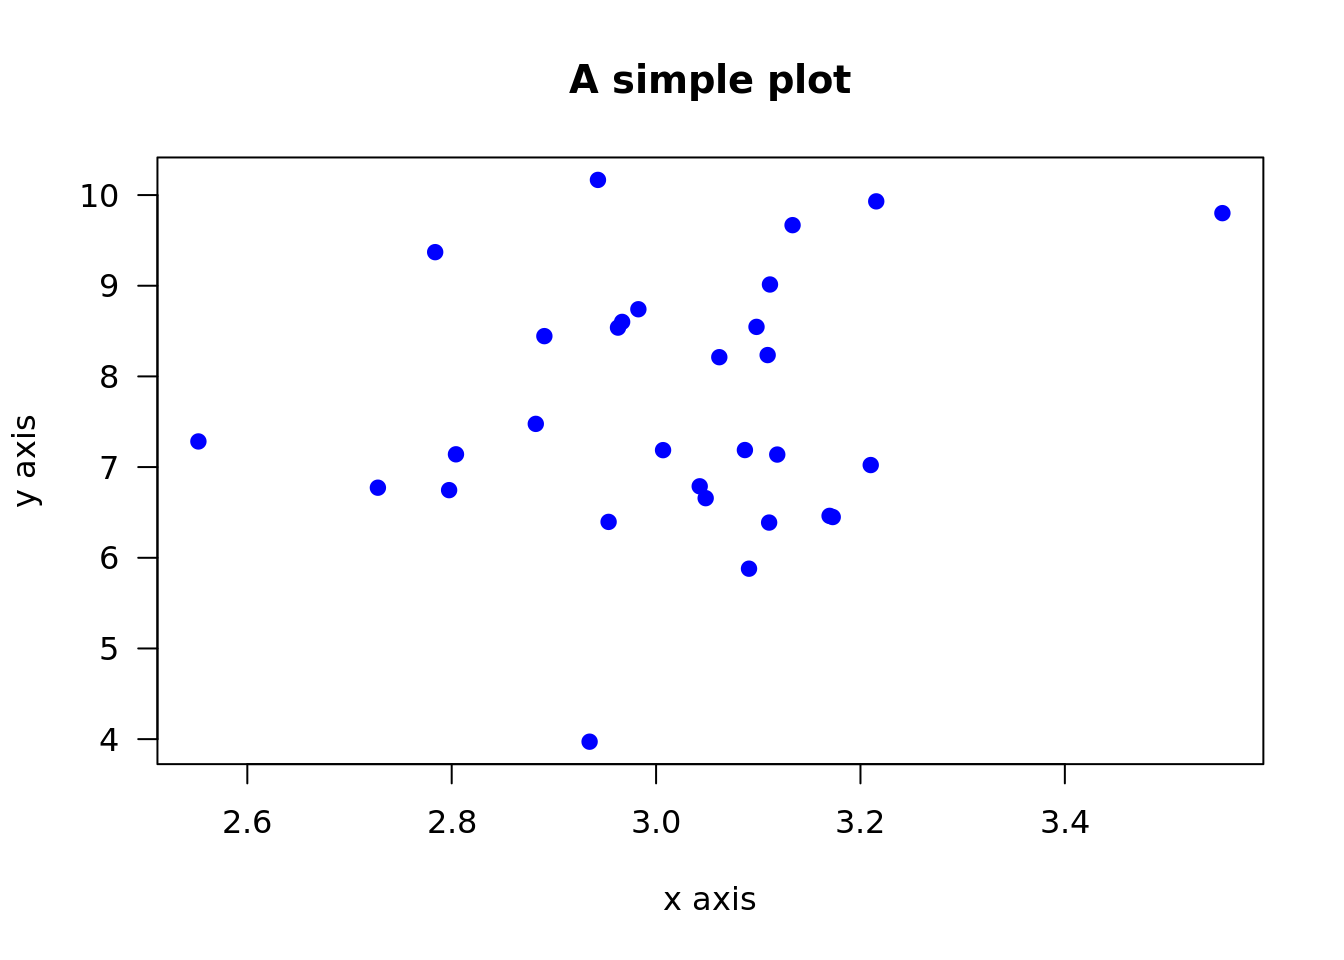
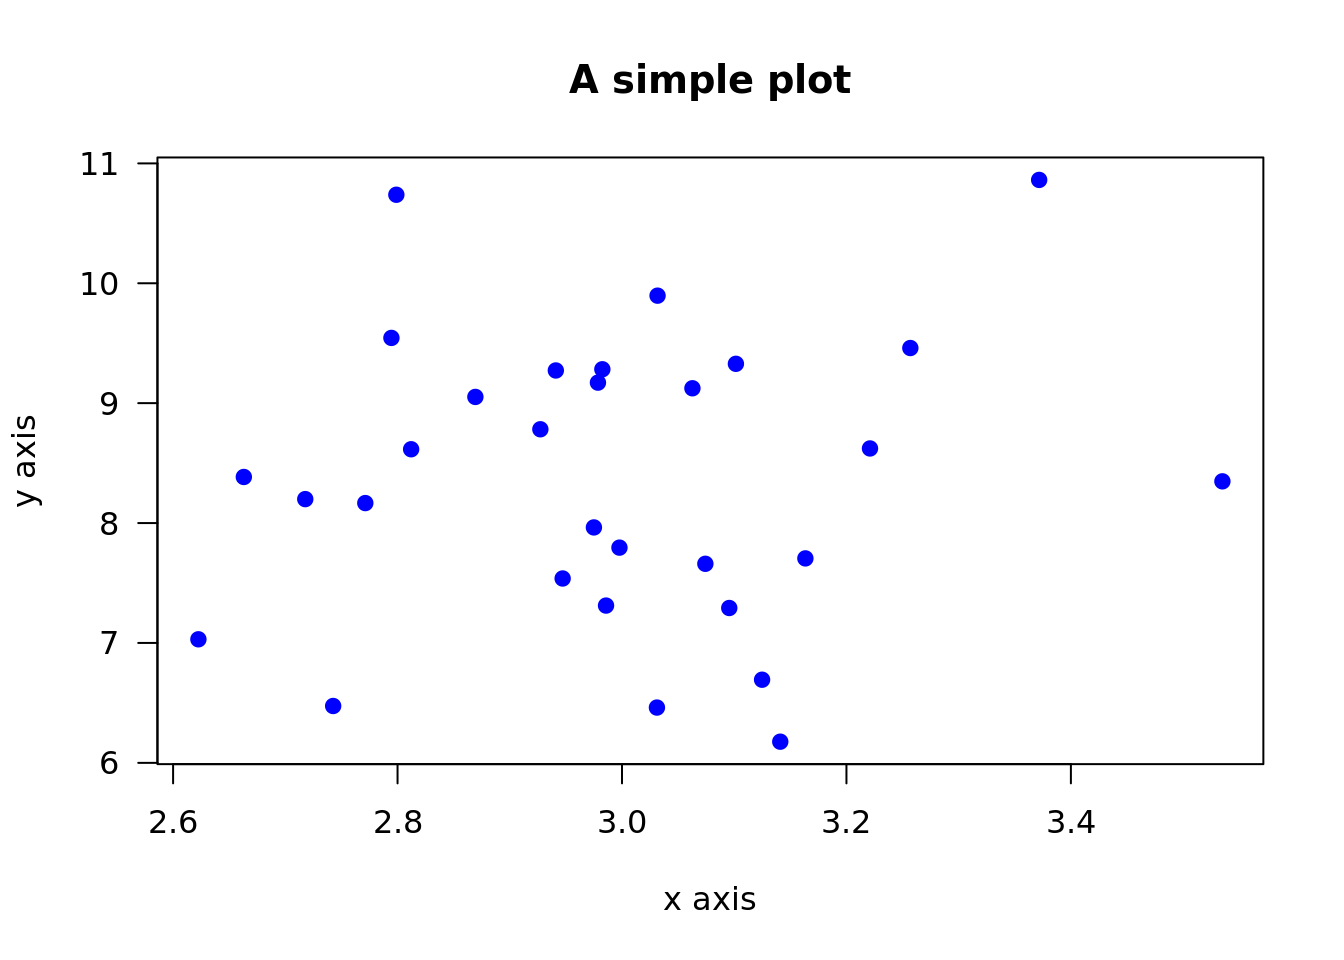
rmarkdown::render_site() with toc for each page

diff --git a/docs/dplyr.html b/docs/dplyr.html
@@ -19,6 +19,9 @@
 <script src="site_libs/bootstrap-3.3.5/js/bootstrap.min.js"></script>
 <script src="site_libs/bootstrap-3.3.5/shim/html5shiv.min.js"></script>
 <script src="site_libs/bootstrap-3.3.5/shim/respond.min.js"></script>
+<script src="site_libs/jqueryui-1.11.4/jquery-ui.min.js"></script>
+<link href="site_libs/tocify-1.9.1/jquery.tocify.css" rel="stylesheet" />
+<script src="site_libs/tocify-1.9.1/jquery.tocify.js"></script>
 <script src="site_libs/navigation-1.1/tabsets.js"></script>
 <link href="site_libs/highlightjs-9.12.0/textmate.css" rel="stylesheet" />
 <script src="site_libs/highlightjs-9.12.0/highlight.js"></script>
@@ -261,6 +264,92 @@ $(document).ready(function () {
 
 
 
+<script>
+$(document).ready(function ()  {
+
+    // move toc-ignore selectors from section div to header
+    $('div.section.toc-ignore')
+        .removeClass('toc-ignore')
+        .children('h1,h2,h3,h4,h5').addClass('toc-ignore');
+
+    // establish options
+    var options = {
+      selectors: "h1,h2,h3",
+      theme: "bootstrap3",
+      context: '.toc-content',
+      hashGenerator: function (text) {
+        return text.replace(/[.\\/?&!#<>]/g, '').replace(/\s/g, '_').toLowerCase();
+      },
+      ignoreSelector: ".toc-ignore",
+      scrollTo: 0
+    };
+    options.showAndHide = true;
+    options.smoothScroll = true;
+
+    // tocify
+    var toc = $("#TOC").tocify(options).data("toc-tocify");
+});
+</script>
+
+<style type="text/css">
+
+#TOC {
+  margin: 25px 0px 20px 0px;
+}
+@media (max-width: 768px) {
+#TOC {
+  position: relative;
+  width: 100%;
+}
+}
+
+
+.toc-content {
+  padding-left: 30px;
+  padding-right: 40px;
+}
+
+div.main-container {
+  max-width: 1200px;
+}
+
+div.tocify {
+  width: 20%;
+  max-width: 260px;
+  max-height: 85%;
+}
+
+@media (min-width: 768px) and (max-width: 991px) {
+  div.tocify {
+    width: 25%;
+  }
+}
+
+@media (max-width: 767px) {
+  div.tocify {
+    width: 100%;
+    max-width: none;
+  }
+}
+
+.tocify ul, .tocify li {
+  line-height: 20px;
+}
+
+.tocify-subheader .tocify-item {
+  font-size: 0.90em;
+  padding-left: 25px;
+  text-indent: 0;
+}
+
+.tocify .list-group-item {
+  border-radius: 0px;
+}
+
+
+</style>
+
+
 
 </head>
 
@@ -268,6 +357,16 @@ $(document).ready(function () {
 
 
 <div class="container-fluid main-container">
+
+
+<!-- setup 3col/9col grid for toc_float and main content  -->
+<div class="row-fluid">
+<div class="col-xs-12 col-sm-4 col-md-3">
+<div id="TOC" class="tocify">
+</div>
+</div>
+
+<div class="toc-content col-xs-12 col-sm-8 col-md-9">
 
 
 
@@ -410,10 +509,7 @@ $(document).ready(function () {
 ## 74: USA (TN) [https]
 ## 75: USA (TX 1) [https]
 ## 76: Uruguay [https]
-## 77: (other mirrors)
-## 
-## Enter an item from the menu, or 0 to exit</code></pre>
-<pre><code>## also installing the dependencies &#39;ellipsis&#39;, &#39;pillar&#39;, &#39;glue&#39;, &#39;lifecycle&#39;, &#39;rlang&#39;, &#39;tibble&#39;, &#39;tidyselect&#39;, &#39;vctrs&#39;</code></pre>
+## 77: (other mirrors)</code></pre>
 <pre><code>## Updating HTML index of packages in &#39;.Library&#39;</code></pre>
 <pre><code>## Making &#39;packages.html&#39; ... done</code></pre>
 <pre class="r"><code>library(&quot;dplyr&quot;)</code></pre>
@@ -495,7 +591,6 @@ humans_bmi &lt;- humans_selected_columns %&gt;%
 ## 15       21   masculine  77      170 Corellia      26.6</code></pre>
 <p>Lets see if there is any relation between planet and bmi For that why dont we start with one plot? As before we start by installing the library and calling it:</p>
 <pre class="r"><code>install.packages(&quot;ggplot2&quot;)</code></pre>
-<pre><code>## also installing the dependency &#39;isoband&#39;</code></pre>
 <pre><code>## Updating HTML index of packages in &#39;.Library&#39;</code></pre>
 <pre><code>## Making &#39;packages.html&#39; ... done</code></pre>
 <pre class="r"><code>library(&quot;ggplot2&quot;)</code></pre>
@@ -541,6 +636,8 @@ head(humans_filtered, 10)</code></pre>
 <p>Copyright &copy; 2021 Carlos Sanchez.</p>
 
 
+</div>
+</div>
 
 </div>
 

diff --git a/docs/index.html b/docs/index.html
@@ -432,28 +432,28 @@ third_column &lt;- runif(30, 1, 8)
 dataframe &lt;- data.frame(first_column, second_column, third_column)
 head(dataframe, 5)</code></pre>
 <pre><code>##   first_column second_column third_column
-## 1     2.783827      9.370694     5.964364
-## 2     3.042690      6.788155     1.905797
-## 3     3.006818      7.186961     6.660133
-## 4     3.169764      6.462013     1.552166
-## 5     2.552127      7.282938     1.697892</code></pre>
+## 1     2.717765      8.199590     6.630948
+## 2     3.095585      7.291464     5.807192
+## 3     3.220983      8.622157     2.658472
+## 4     3.074277      7.660146     1.013958
+## 5     3.256930      9.459837     5.174523</code></pre>
 <p>We can change the name to the dataframe columns</p>
 <pre class="r"><code>names(dataframe) &lt;- c(&quot;one&quot;, &quot;two&quot;, &quot;three&quot;)
 head(dataframe, 5)</code></pre>
 <pre><code>##        one      two    three
-## 1 2.783827 9.370694 5.964364
-## 2 3.042690 6.788155 1.905797
-## 3 3.006818 7.186961 6.660133
-## 4 3.169764 6.462013 1.552166
-## 5 2.552127 7.282938 1.697892</code></pre>
+## 1 2.717765 8.199590 6.630948
+## 2 3.095585 7.291464 5.807192
+## 3 3.220983 8.622157 2.658472
+## 4 3.074277 7.660146 1.013958
+## 5 3.256930 9.459837 5.174523</code></pre>
 <p>Now we could select specific rows or columns by the bracket operator</p>
 <p>dataframe[rows, columns]</p>
 <pre class="r"><code>dataframe[1:4,1:2]</code></pre>
 <pre><code>##        one      two
-## 1 2.783827 9.370694
-## 2 3.042690 6.788155
-## 3 3.006818 7.186961
-## 4 3.169764 6.462013</code></pre>
+## 1 2.717765 8.199590
+## 2 3.095585 7.291464
+## 3 3.220983 8.622157
+## 4 3.074277 7.660146</code></pre>
 <p>we could even plot one against each other</p>
 <pre class="r"><code>plot(dataframe$one, dataframe$two)</code></pre>
 <p><img src="index_files/figure-html/unnamed-chunk-6-1.png" width="672" /></p>
